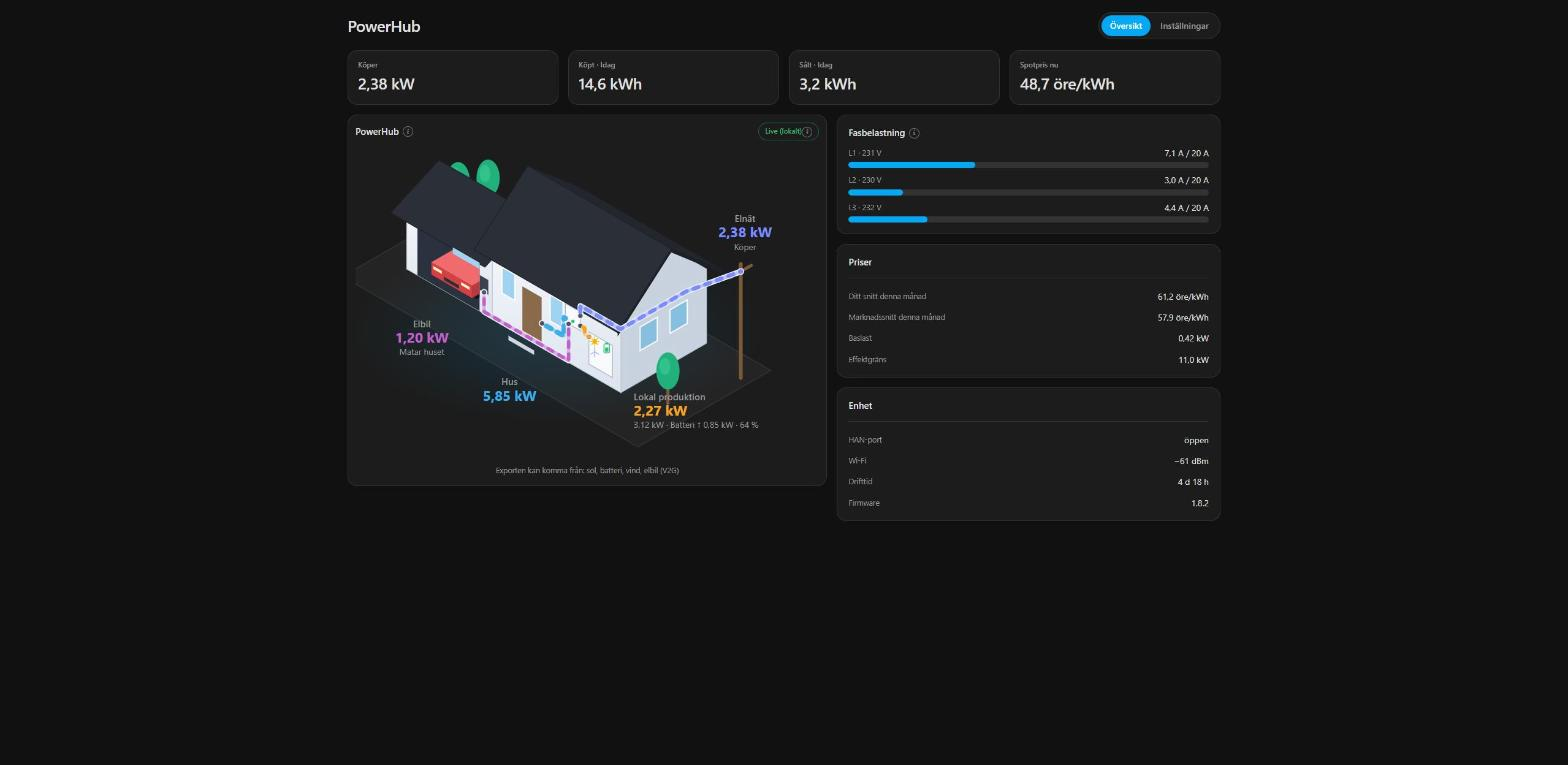
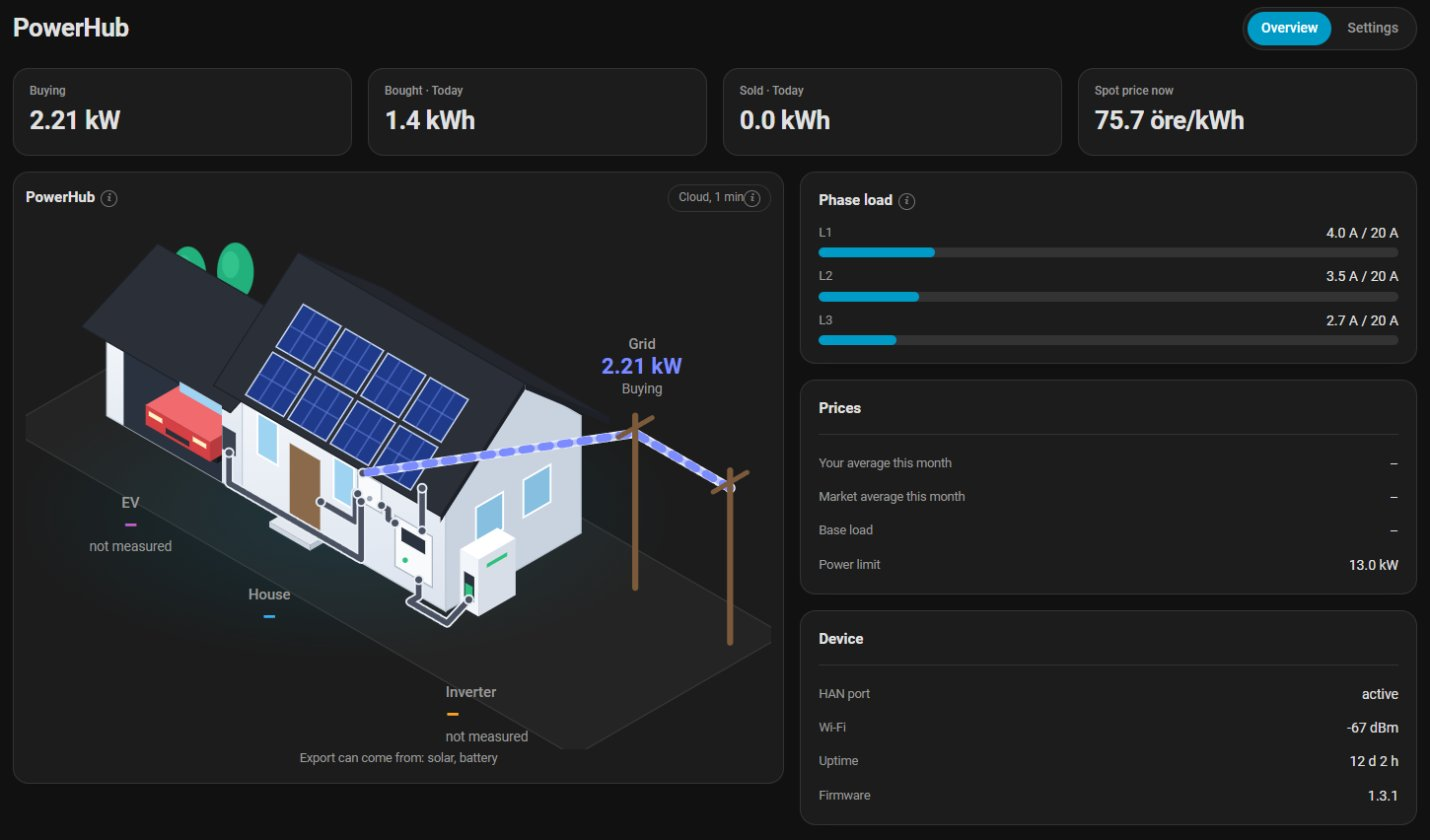
docs: shorter README, new dashboard picture after installation, links to every energy company (#64)
* docs: shorter README with the new dashboard picture after installation; link every energy company

Details on hiding the panel and the local Bitvis network requirement move to docs/setup.md.

* docs: README notes the UDP 58220 forwarding option; Bjäre Kraft links to its PowerHub page

---------

diff --git a/README.md b/README.md
@@ -37,139 +37,55 @@ Or manually:
 
 See the **[full setup guide](docs/setup.md) (including the dashboard)** for step-by-step instructions with screenshots.
 
+## Dashboard
+
+![PowerHub panel](docs/images/13_panel_overview.jpg)
+
+A **PowerHub** entry appears in the sidebar as soon as the integration is set up — nothing to add or configure
+(after updating, restart Home Assistant and reload the browser). It shows grid import/export as an animated house,
+phase load against your main fuse, today's energy, prices and device status.
+
+Under **Settings** in the panel you tick your own sources — solar panels, home battery, wind turbine, generator,
+EV — and each one is drawn on the picture with its own cable. The grid can come in as an overhead line or an
+underground cable, and the panel speaks English, Svenska, Norsk, Dansk, Suomi and Íslenska.
+
 ## Features
 
-- HA Energy dashboard compatible import/export/spot-price sensors
+- Import/export and spot-price sensors for the HA Energy dashboard
 - Real-time power and per-phase current (1-minute resolution)
-- Monthly insights: your average price vs. market, year-to-date consumption and production, baseload estimate
-- Device diagnostics: Wi-Fi signal, firmware, uptime, HAN port state
-- Writable fuse/power limits and notification preferences
-- Push notification mirroring (energy company → HA sensor)
-- Facility sharing services (create / revoke invitations)
-- Automatic token re-auth when JWT expires
+- Monthly insights, year-to-date, baseload; device diagnostics
+- Writable fuse/power limits and notification settings; facility sharing
+- Automatic re-authentication with BankID
 
-See the **[user manual](docs/user_manual.md)** for the full entity list and usage.
+Full entity list: **[user manual](docs/user_manual.md)**.
 
-## Details
-
-### Supported energy companies
+## Supported energy companies
 
 | Energy company | Status |
 |---|---|
-| [Mälarenergi](https://www.malarenergi.se/el/elavtal/powerhub/) | Tested |
-| Boo Energi | Confirmed working by a user |
-| Bjäre Kraft, Borås Elhandel, Dala Energi, Falu Energi, Kinnekulle Energi, Kraftringen, Kvänum Energi, Landskrona Energi, Norrtälje Energi, Nossebro Energi, Skånska Energi, Södra Hallands Kraft, Tranås Energi, Trelleborgs Energi, Vaggeryds Energi, Vänerenergi, Varbergsortens Elkraft | Bitvis backend with BankID login exists; untested — please report! |
+| [Mälarenergi](https://www.malarenergi.se/el/elavtal/powerhub/) | ✅ Tested |
+| [Boo Energi](https://www.booenergi.se/) | ✅ Confirmed by a user |
+| [Bjäre Kraft](https://www.bjarekraft.se/privat/el/energiappen/bjaere-kraft-power-hub), [Borås Elhandel](https://boraselhandel.se/), [Dala Energi](https://dalaenergi.se/), [Falu Energi & Vatten](https://fev.se/), [Kinnekulle Energi](https://kinnekulleenergi.se/), [Kraftringen](https://www.kraftringen.se/), [Kvänum Energi](https://kvanumenergi.se/), [Landskrona Energi](https://landskronaenergi.se/), [Norrtälje Energi](https://www.norrtaljeenergi.se/), [Nossebro Energi](https://nossebroenergi.se/), [Skånska Energi](https://www.skanska-energi.se/), [Södra Hallands Kraft](https://www.sodrahallandskraft.se/), [Tranås Energi](https://tranasenergi.se/), [Trelleborgs Energi](https://trelleborgsenergi.se/), [Vaggeryds Energi](https://www.vaggerydsenergi.se/), [VänerEnergi](https://vanerenergi.se/), [Varbergsortens Elkraft](https://vbgelkraft.se/) | Available, untested — please report! |
 
-Another company not listed? Type its name in the setup dialog (lowercase, no spaces, å/ä/ö → a/a/o) and open an issue so it can be added.
+Company missing? Type its name in the setup dialog (lowercase, no spaces, å/ä/ö → a/a/o) and open an issue.
 
-### Dashboard panel
+## Built-in Bitvis integration
 
-**How to get it:** nothing to add or configure. Once the integration is set up (v0.4.0 or later), a **PowerHub**
-entry appears in Home Assistant's left sidebar for every user. Right after updating through HACS, restart Home
-Assistant and reload the browser page (in the phone app: pull to refresh) so the new sidebar entry shows up. You can
-also open it directly at `/powerhub`. Only administrators can change its settings.
-
-A **PowerHub** sidebar panel shows grid import/export as an animated house picture, phase load against the main
-fuse, today's energy, prices and device status. If Home Assistant's built-in **Bitvis** integration is set up for
-the same hub, the panel uses its local real-time values (badge "Live (local)"); otherwise the 1-minute cloud values.
-
-The PowerHub only measures the grid connection, so it can't tell where exported power comes from. Under
-**Settings** in the panel you tick your local sources (solar, home battery, wind, generator/CHP, EV with V2H/V2G,
-other) and whether you have a plain EV charger. Each source is drawn as a physical object with its own cable —
-solar panels on the roof, a wind turbine on the lawn, battery and generator cabinets, the car in the garage — and
-a V2G car can feed the house. The grid connection can be drawn as an overhead line or an underground cable. Optionally pick a combined production-power sensor, battery sensors and an
-EV power sensor so their values appear in the picture. The panel's language follows Home Assistant by default
-(English, Svenska, Norsk, Dansk, Suomi, Íslenska; others fall back to English) and can be set there too.
-The panel's **Show PowerHub in the sidebar** setting hides it for everyone (it stays reachable at `/powerhub`); to hide
-it just for yourself, use Home Assistant's own sidebar editing (long-press the sidebar title, or Profile → *Change the
-order and hide items from the sidebar*).
-
-![Panel](docs/images/13_panel_overview.jpg)
-
-The panel source is in `frontend/` (React + Vite); `npm ci && npm run build` writes
-`custom_components/malarenergi_powerhub/www/panel.js`, which is committed. `npm run dev` opens a preview with
-synthetic data (`frontend/index.html` lists the URL flags).
-
-### Works together with the built-in Bitvis Power Hub integration
-
-Since **Home Assistant 2026.10** HA ships a [Bitvis Power Hub](https://www.home-assistant.io/integrations/bitvis) integration that reads the meter **locally** (UDP push on your LAN, no login). Use both:
-
-| | Built-in `bitvis` (local) | This integration (cloud) |
-|---|---|---|
-| Real-time power, per-phase voltage/current, meter energy totals | ✅ best source — use for the Energy dashboard | 1-minute power and currents |
-| Spot price, agreement, price model/zone | | ✅ |
-| Monthly insights, year-to-date, baseload | | ✅ |
-| Fuse/power limits, notification settings, sharing | | ✅ |
-
-Both identify the hub by its MAC address, but HA keeps one device per integration, so the hub shows up as two devices — one local, one cloud. (On HA versions before 2026.8, if another integration such as a router's device tracker already claims the hub's MAC, the cloud device simply doesn't get the MAC.)
-
-#### Network requirement for the local integration
-
-The hub and Home Assistant must be on the **same subnet**, or your router must **forward UDP port 58220** traffic from the hub to HA (Bitvis' requirement). The hub appears to *broadcast* its readings, and broadcasts don't cross VLANs, so a plain "allow" firewall rule or an mDNS proxy alone is not enough — you need real UDP broadcast relaying/forwarding to HA, or put the hub on HA's network (e.g. UniFi *Virtual Network Override* on the hub's client page), or give HA an interface on the hub's VLAN. This integration (cloud) works regardless.
-
-> Running both side by side hasn't been tested yet — the maintainer's hub is on a separate IoT VLAN. If you run both, please report how it goes in an issue.
-
-### Hardware
-
-| Property | Value |
-|---|---|
-| Manufacturer | Bitvis AB (OEM for the energy companies above) |
-| SoC | Espressif ESP32 (OUI `94:54:C5`) |
-| Connectivity | Wi-Fi 2.4 GHz |
-| HAN port | RJ45 (Norwegian standard, P1/IEC 62056-21) |
-| Meter | Kaifa MA304 |
-| Cloud backend | Bitvis "Flow" platform — `<company>.prod.flow.bitv.is` |
-
-The hub has no open TCP ports; it **pushes** meter readings over UDP on the LAN (what the built-in `bitvis` integration reads) and to Bitvis's cloud. This integration uses the same REST API as the energy companies' PowerHub apps.
-
-### Authentication
-
-Login uses **Swedish BankID** (same as your energy company's PowerHub app). During setup a QR code is displayed in the HA config flow — scan it with the BankID app on your phone.
-
-The integration stores the JWT Bearer token in the HA config entry. When the token expires, HA triggers a re-auth flow automatically.
-
-### Entities
-
-The integration exposes ~40 entities — sensors, binary sensors, switches, numbers and selects. The full reference (entity IDs, units, writable controls, services) is in the [user manual](docs/user_manual.md).
-
-### Repository name
-
-Formerly **ha-malarenergi-powerhub** — renamed since it supports many energy companies. Existing HACS installs keep
-working (GitHub redirects the old URL); the integration's internal domain `malarenergi_powerhub` is unchanged.
+Since **Home Assistant 2026.10**, the built-in [Bitvis Power Hub](https://www.home-assistant.io/integrations/bitvis)
+integration reads the meter **locally** (the hub and HA must share a subnet, or UDP 58220 must be forwarded to HA — see the [setup guide](docs/setup.md#using-it-together-with-the-built-in-bitvis-integration)). Use it for real-time power and
+the Energy dashboard, and this integration for prices, insights, limits and settings — the panel picks up the
+local values automatically.
 
 ## Development
 
-### Requirements
-
-```
-pip install pytest pytest-asyncio aioresponses aiohttp
-```
-
-### Run tests
-
-```bash
-python3 -m pytest tests/ -v
-```
-
-### Traffic capture (for further reverse engineering)
-
-```bash
-# Install mitmproxy
-pip install mitmproxy
-
-# Start capture proxy (optionally filter by device/phone IP)
-CAPTURE_PHONE_IP=192.168.1.x mitmdump -s tools/capture.py --listen-port 8080 --ssl-insecure
-```
-
-See [docs/reverse_engineering.md](docs/reverse_engineering.md) for full findings on the cloud API.
+The panel lives in `frontend/` (React + Vite): `npm ci && npm run build` writes the committed
+`custom_components/malarenergi_powerhub/www/panel.js`; `npm run dev` previews it with synthetic data.
+Tests: `python3 -m pytest tests/`. API findings: [docs/reverse_engineering.md](docs/reverse_engineering.md).
 
 ## Disclaimer
 
-The cloud APIs are internal to Bitvis and not officially supported; they may change without notice. For guaranteed-stable meter data use the built-in `bitvis` integration.
-
-## Contributing
-
-Pull requests are welcome. Please open an issue first to discuss what you'd like to change.
+The cloud APIs are internal to Bitvis and may change without notice. Formerly named **ha-malarenergi-powerhub**;
+old HACS installs keep working.
 
 ## License
 

diff --git a/docs/setup.md b/docs/setup.md
@@ -136,7 +136,11 @@ From v0.4.0 the integration comes with its own dashboard. There is nothing to ad
 
 ![PowerHub dashboard](images/13_panel_overview.jpg)
 
-Open **Settings** in the dashboard (top right) to tick your local sources — solar, home battery, wind, generator/CHP, EV with V2H/V2G, a plain EV charger — and optionally pick sensors for them. Each ticked source appears as its own object in the overview picture, and the grid connection can be shown as an overhead line or an underground cable. Only administrators can change these settings; everyone else sees them read-only. The dashboard can be hidden from there for everyone, or just for yourself through Home Assistant's own sidebar editing — see the README.
+Open **Settings** in the dashboard (top right) to tick your local sources — solar, home battery, wind, generator/CHP, EV with V2H/V2G, a plain EV charger — and optionally pick sensors for them. Each ticked source appears as its own object in the overview picture, and the grid connection can be shown as an overhead line or an underground cable. Only administrators can change these settings; everyone else sees them read-only. The panel's **Show PowerHub in the sidebar** setting hides it for everyone (it stays reachable at `/powerhub`); to hide it just for yourself, use Home Assistant's own sidebar editing (long-press the sidebar title, or *Profile → Change the order and hide items from the sidebar*).
+
+### Using it together with the built-in Bitvis integration
+
+Home Assistant 2026.10+ ships the [Bitvis Power Hub](https://www.home-assistant.io/integrations/bitvis) integration, which reads the hub locally. The hub pushes its readings over **UDP port 58220**, so the hub and Home Assistant must be on the **same subnet**, or your router must forward that traffic to HA (VLANs and mDNS relays usually block it). When both integrations are set up, the hub shows up as two devices — one local, one cloud — and the panel uses the local real-time values (badge "Live (local)").
 
 ---
 
